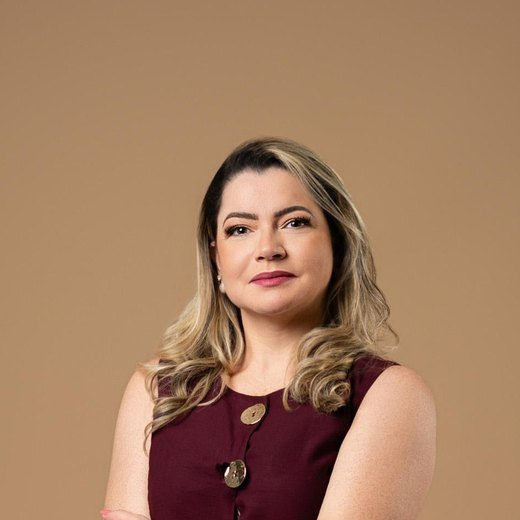
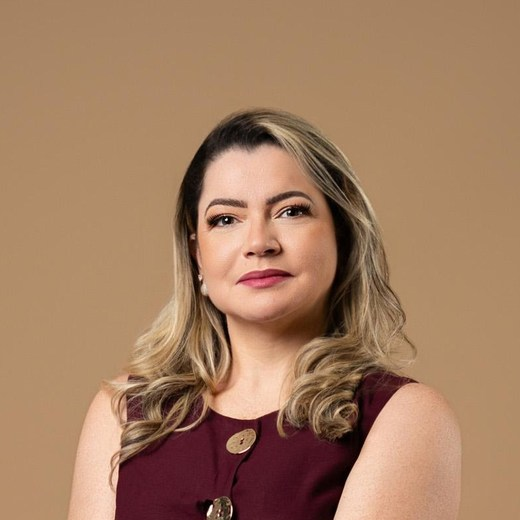
Foto: recentraliza rosto no circulo + cache-bust perfil.jpg?v=7

Changed region(s): [[0.1231, 0.1846, 0.8923, 1.0], [0.4923, 0.9846, 0.5231, 1.0]]

diff --git a/index.html b/index.html
@@ -239,7 +239,7 @@ textarea{resize:vertical;min-height:110px;line-height:1.4}
 <div id="inicio" class="screen inicio-wrap">
   <div class="edit-hero">
     <div class="orb orb-a"></div><div class="orb orb-b"></div><div class="orb orb-c"></div>
-    <div class="profile-ring"><img src="perfil.jpg" alt="Dra. Dayane Vieira" class="profile-img"></div>
+    <div class="profile-ring"><img src="perfil.jpg?v=7" alt="Dra. Dayane Vieira" class="profile-img"></div>
     <h1 class="brand">Dra. Dayane Vieira</h1>
     <div class="spec">Pediatra · Neonatologista</div>
     <div class="edit-glass">🌼 Acompanha Bebê</div>
@@ -297,7 +297,7 @@ textarea{resize:vertical;min-height:110px;line-height:1.4}
   <button class="btn-back" onclick="navTo('inicio')"><span class="material-icons-round">arrow_back</span> Início</button>
   <div class="onboard-hero">
     <div class="identity-card">
-      <div class="profile-ring"><img src="perfil.jpg" alt="Dra. Dayane Vieira" class="profile-img"></div>
+      <div class="profile-ring"><img src="perfil.jpg?v=7" alt="Dra. Dayane Vieira" class="profile-img"></div>
       <div class="id-info">
         <h2 class="brand">Dra. Dayane Vieira</h2>
         <div class="id-spec">Pediatra · Neonatologista</div>